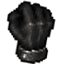
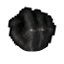
г

diff --git a/Source/Build/src/arena/arena.js b/Source/Build/src/arena/arena.js
@@ -1127,7 +1127,8 @@ function drawChar(ent, cscl, torsoCol, headCol){
   const _blockTiltElapsed = GameTime - (ent._blockBodyTiltT0!==undefined ? ent._blockBodyTiltT0 : -99);
   const _blockTiltDecayTime = Math.max(0,_blockTiltElapsed-0.14);
   const _blockTilt = (ent._blockBodyTiltAmp||0) * Math.exp(-_blockTiltDecayTime * 7);
-  ctx.rotate((ent.vx||0)*0.02 + _hitTilt + _blockTilt);
+  const bodyTilt = (ent.vx||0)*0.02 + _hitTilt + _blockTilt;
+  ctx.rotate(bodyTilt);
 
   // тень
   ctx.fillStyle='rgba(0,0,0,0.28)';
@@ -1180,11 +1181,49 @@ function drawChar(ent, cscl, torsoCol, headCol){
     ctx.fillStyle = ent===P ? 'rgba(90,160,255,0.25)' : 'rgba(255,80,70,0.25)';
     ctx.fillRect(-spriteW/2, CHAR_SPRITE_OFFSET_Y, spriteW, CHAR_SPRITE_H);
   }
+  if(ent.hasWeapon === false){
+    drawUnarmedGloves(ent, spriteW, bodyTilt);
+  }
   ctx.restore();
   drawOverheadHealthBar(ent, cscl);
   drawStatusEffects(ent, cscl);
 }
 
+function drawUnarmedGloves(ent, spriteW, bodyTilt){
+  const img = (typeof GLOVE_SPRITE_IMG !== 'undefined') ? GLOVE_SPRITE_IMG : null;
+  const imgReady = img && img.complete && img.naturalWidth > 0 && img.naturalHeight > 0;
+  const gloveH = CHAR_SPRITE_H * 0.20;
+  const gloveW = imgReady ? gloveH * (img.naturalWidth / img.naturalHeight) : gloveH;
+  const baseY = CHAR_SPRITE_OFFSET_Y + CHAR_SPRITE_H * 0.58;
+  const baseX = spriteW * 0.44 + gloveW * 0.10;
+  const baseGloveRot = 165 * Math.PI / 180;
+  const aim = ent.angle || 0;
+  const shieldSide = shieldDef(ent) ? Math.sign(ent._shieldSide || 0) : 0;
+
+  for(const side of [-1, 1]){
+    if(shieldSide && side === shieldSide) continue;
+    const cursorX = Math.cos(aim) * side * gloveW * 0.18;
+    const cursorY = Math.sin(aim) * gloveH * 0.35;
+    const cursorTilt = $.M.clamp(Math.sin(aim) * 16 * Math.PI / 180, -16 * Math.PI / 180, 16 * Math.PI / 180);
+    const sideTilt = $.M.clamp(Math.cos(aim) * side * 5 * Math.PI / 180, -5 * Math.PI / 180, 5 * Math.PI / 180);
+    const gloveTilt = -bodyTilt * 3.2 + cursorTilt + sideTilt;
+
+    ctx.save();
+    ctx.translate(side * (baseX + cursorX), baseY + cursorY);
+    if(side > 0) ctx.scale(-1, 1);
+    ctx.rotate(baseGloveRot + gloveTilt);
+    if(imgReady){
+      ctx.drawImage(img, -gloveW/2, -gloveH/2, gloveW, gloveH);
+    } else {
+      ctx.fillStyle = 'rgba(18,18,18,0.92)';
+      ctx.strokeStyle = 'rgba(210,210,210,0.35)';
+      ctx.lineWidth = 0.8;
+      ctx.fillRect(-gloveW/2, -gloveH/2, gloveW, gloveH);
+      ctx.strokeRect(-gloveW/2, -gloveH/2, gloveW, gloveH);
+    }
+    ctx.restore();
+  }
+}
 const DEATH_ANIM_DURATION = 1.5;
 const DEATH_ANIM_DISSOLVE_AT = 0.4;
 const DEATH_ANIMS = [];

diff --git a/Source/Build/src/systems/sprites.js b/Source/Build/src/systems/sprites.js
@@ -69,6 +69,7 @@ function weaponColliderSpan(ent){
 // Ширина вычисляется из реальных пропорций PNG — без искажения аспекта.
 const CHAR_SPRITE_H = 38;
 const CHAR_SPRITE_OFFSET_Y = -23; // верх спрайта относительно bx,by
+const GLOVE_SPRITE_URL = ((typeof PROJECT_PATH_AUDIO!=='undefined') ? PROJECT_PATH_AUDIO : '') + 'Source/Weapon/Glove/T_Glove_01.png';
 
 // ════════════════════════════════════════════════════════════════════════════
 // MODULE: SPRITES  (PNG персонажа и оружия, тот же BuildMusicList.txt)
@@ -236,6 +237,7 @@ const SPRITE_FOLDERS = {
     rapier:     'Source/Weapon/Rapier/',     
     shield:     'Source/Weapon/Shield/',      
     shieldspike: 'Source/Weapon/ShieldSpike/', 
+    glove:      'Source/Weapon/Glove/',
     background: 'Source/Background/',
   
   
@@ -290,6 +292,8 @@ function loadSpriteImage(url){
 }
 
 // Возвращает случайный URL из категории (или null если список пуст)
+const GLOVE_SPRITE_IMG = loadSpriteImage(GLOVE_SPRITE_URL);
+
 function pickRandomSprite(category){
   const arr = SPRITE_LISTS[category];
   if(!arr || arr.length === 0) return null;
